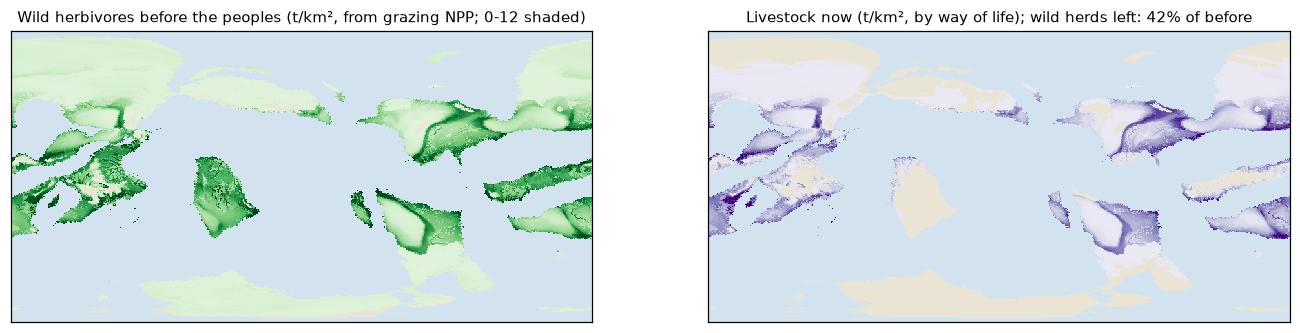
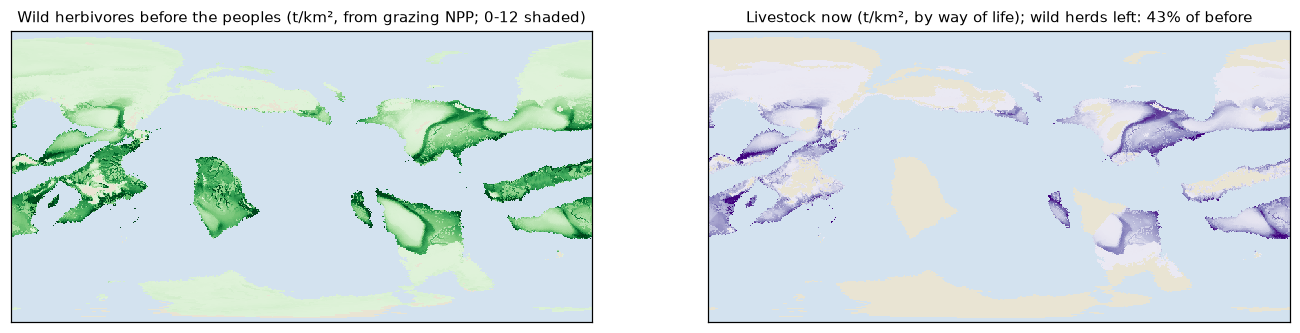
age-of-dragons review rebuilt for PW-990 B and PW-977 stage 2, with a plain summary first
2a7385 roll 7000 at e2092241; arms: main and a no-pressure diagnostic.

Claude-Session: https://claude.ai/code/session_015Ygr7jJsDAVZNZ3um5tdCA

diff --git a/docs/review/megafauna/age-of-dragons.html b/docs/review/megafauna/age-of-dragons.html
@@ -11,14 +11,27 @@ td:first-child,th:first-child{text-align:left} .sw{display:inline-block;width:10
 .wrap{overflow-x:auto}
 </style></head><body>
 <h1>The age of dragons: natural against present numbers</h1>
-<div class="mut">PW-967 review, for the owner. World 2a7385 (L7), dnd peoples, roll 7000, settings at their defaults (owner 10-28): natural density from the prey,
-younger age schedule, dragon generation 430 yr, dragons held to their food (PW-977 stage 1), 1 dragon per 5,000 km² and 1 giant per 2,000 km² where peoples press them. The other candidates are
+<div style="border:1px solid #ccc;border-radius:6px;padding:10px 14px;margin:10px 0 18px;max-width:900px">
+<b>In short (fun lane 45b, 2026-10-29; the 6 worlds x rolls 7000-7003 dnd sweep against main):</b>
+<ul>
+<li><b>Food now sets the dragons' natural numbers</b> (your PW-990 ruling, option B). Each year the land offers 10% of its wild herds plus 10% of the herders' stock. The peoples' hunters eat first, then the giants. The rest of the predators split what is left by body size: the small and mid-sized hunters take 83%, the dragons 17%. A dragon eats about 2.7 t of prey a year, so that 17% sets how many dragons the land holds.</li>
+<li><b>Dragons where no people live:</b> about 1 per 160 km&sup2; on 1 t/km&sup2; of prey. Rich savanna (about 7 t/km&sup2;) holds about 1 per 23 km&sup2;, a poor desert (about 0.6 t/km&sup2;) about 1 per 265 km&sup2;. The old rule from prey numbers (Carbone &amp; Gittleman) gave about 1 per 270 km&sup2; on 1 t/km&sup2;, so food allows about 1.7 times as many. Two checks from the papers: living mammal carnivores of a dragon's mass are predicted at 1 per ~200 km&sup2; (Jetz et al. 2004), and large reptiles at 1 per ~27 km&sup2; (Farlow 1993).</li>
+<li><b>Dragons per run at the present:</b> 62,600 against 42,300 on main (+48%; the range is 8,300 to 162,000 by world). Main's 15,300 was world 2a7385 alone; this world now has 20,000 on roll 7000. We did not tune this down.</li>
+<li><b>Dragons take very little of the food:</b> 0.9% of it 25,000 years ago and 0.6% today. In country with no people they eat about 7-8%. In peopled country the pressure rule leaves 1-2% of the dragons the food could feed, and as little as 0.2% in places. This is true even for foragers, who should not be able to kill dragons. Measured on 6 runs (one per world) with the pressure turned off, which gives 174,000-604,000 dragons per run against 14,000-80,000 with it: foragers' country keeps 0.6-2.1%, herders' 0.7-8.1%, farmers' 0.2-1.4%. Fixing this is stage 3 (persecution set against slow breeding).</li>
+<li><b>The peoples eat most of the wild game where they live:</b> 88% of the wild surplus in foragers' country and 52-56% in farmers' country before farming. The reason is that dnd's hunting peoples live at farmer-like densities (halflings 12 per km&sup2;, goblins 5). We have filed this for a decision.</li>
+<li><b>People density now follows the land's productivity</b> (PW-974). Foragers rise and fall with the wild food (the foraging layer), herders with the grass, and farmers are unchanged. Each way of life's average density stayed the same (foragers 3.65 against 3.66 people/km&sup2;, herders 0.81 against 0.76). The share of peoples with a big enough range is unchanged (69.0% both), and the remnants are 84 against 83.</li>
+</ul>
+<span class="mut">Every number on this page comes from planet.lineages and one run, world 2a7385 roll 7000; the sweep's numbers come from docs/review/megafauna/people_density.py. Unverified inputs: the 10% offtakes (PW-991), a person's food and game share, and the size-class rule (inbox draft).</span>
+</div>
+
+<div class="mut">PW-967 review, for the owner. World 2a7385 (L7), dnd peoples, roll 7000, settings at their defaults (owner 10-28, 10-29): natural density from food (PW-990 B: the dragons' part of the land's surplus after the peoples and the rest of the predator guild),
+younger age schedule, dragon generation 430 yr, dragons held to their food (PW-977 stages 1-2), 1 dragon per 5,000 km² and 1 giant per 2,000 km² where peoples press them. The other candidates are
 worked from the same run's fields. Nothing is picked: the settings are meta.megafauna_natural, meta.dragon_ages, meta.dragon_generation.</div>
 <h2>1. Before the peoples, and now</h2><img src="age-of-dragons/maps.png" alt="maps">
-<div class="row"><div class="wrap"><table><tr><th>natural density</th><th>schedule</th><th>per dragon</th><th>dragons in their country</th></tr><tr><td>prey-based (Carbone & Gittleman 2002)</td><td>base</td><td>1 per 229</td><td>772,582</td></tr><tr><td>prey-based (Carbone & Gittleman 2002)</td><td>younger</td><td>1 per 116</td><td>1,522,488</td></tr><tr><td>prey-based (Carbone & Gittleman 2002)</td><td>harsher</td><td>1 per 63</td><td>2,797,267</td></tr><tr><td>prey-based (Carbone & Gittleman 2002)</td><td>gentler</td><td>1 per 570</td><td>311,072</td></tr><tr><td>Damuth, Marshall's dinosaur line</td><td>base</td><td>1 per 65</td><td>1,981,171</td></tr><tr><td>Damuth, Marshall's dinosaur line</td><td>younger</td><td>1 per 31</td><td>4,165,504</td></tr><tr><td>Damuth, Marshall's dinosaur line</td><td>harsher</td><td>1 per 18</td><td>7,235,070</td></tr><tr><td>Damuth, Marshall's dinosaur line</td><td>gentler</td><td>1 per 135</td><td>956,800</td></tr><tr><td>Damuth, mammal carnivores</td><td>base</td><td>1 per 137</td><td>943,415</td></tr><tr><td>Damuth, mammal carnivores</td><td>younger</td><td>1 per 65</td><td>1,983,573</td></tr><tr><td>Damuth, mammal carnivores</td><td>harsher</td><td>1 per 38</td><td>3,445,271</td></tr><tr><td>Damuth, mammal carnivores</td><td>gentler</td><td>1 per 284</td><td>455,619</td></tr>
-<tr><td><b>present, peopled country</b></td><td>any</td><td>1 per 5,000</td><td>5,565 (the run)</td></tr></table>
-<div class="mut">Their country: 129.5 M km², any kind's habitat &ge; 0.5. Prey-based rows use the run's prey cell by cell (median there 2.3 t/km²);
-Damuth rows are uniform. Present: 1 per 5,000 is 9-79x below the prey-based values, 18-279x below Damuth's.</div></div>
+<div class="row"><div class="wrap"><table><tr><th>natural density</th><th>schedule</th><th>per dragon</th><th>dragons in their country</th></tr><tr><td>prey-based (Carbone & Gittleman 2002)</td><td>base</td><td>1 per 255</td><td>711,096</td></tr><tr><td>prey-based (Carbone & Gittleman 2002)</td><td>younger</td><td>1 per 129</td><td>1,401,320</td></tr><tr><td>prey-based (Carbone & Gittleman 2002)</td><td>harsher</td><td>1 per 70</td><td>2,574,646</td></tr><tr><td>prey-based (Carbone & Gittleman 2002)</td><td>gentler</td><td>1 per 633</td><td>286,315</td></tr><tr><td>Damuth, Marshall's dinosaur line</td><td>base</td><td>1 per 65</td><td>1,947,934</td></tr><tr><td>Damuth, Marshall's dinosaur line</td><td>younger</td><td>1 per 31</td><td>4,095,622</td></tr><tr><td>Damuth, Marshall's dinosaur line</td><td>harsher</td><td>1 per 18</td><td>7,113,691</td></tr><tr><td>Damuth, Marshall's dinosaur line</td><td>gentler</td><td>1 per 135</td><td>940,749</td></tr><tr><td>Damuth, mammal carnivores</td><td>base</td><td>1 per 137</td><td>927,587</td></tr><tr><td>Damuth, mammal carnivores</td><td>younger</td><td>1 per 65</td><td>1,950,296</td></tr><tr><td>Damuth, mammal carnivores</td><td>harsher</td><td>1 per 38</td><td>3,387,472</td></tr><tr><td>Damuth, mammal carnivores</td><td>gentler</td><td>1 per 284</td><td>447,976</td></tr>
+<tr><td><b>present, peopled country</b></td><td>any</td><td>1 per 5,000</td><td>19,968 (the run)</td></tr></table>
+<div class="mut">Their country: 127.4 M km², any kind's habitat &ge; 0.5. Prey-based rows use the run's prey cell by cell (median there 2.1 t/km²);
+Damuth rows are uniform. Present: 1 per 5,000 is 8-71x below the prey-based values, 18-279x below Damuth's.</div></div>
 <img src="age-of-dragons/over-time.png" alt="over time" style="max-width:520px"></div>
 <h2>2. What they eat from: wild herds and livestock</h2><img src="age-of-dragons/prey.png" alt="prey">
 <div class="mut">Wild herbivores from grazing NPP by McNaughton et al. 1989's fit (conversion factors unverified, prey.py);
@@ -28,20 +41,30 @@ small folk cut them by up to 60% outside tundra and mountains; livestock by way 
 <h2>4. Counts over familiar areas (anc = ancients, ad = adults, yg = young, wy = wyrmlings)</h2>
 <div class="mut">Counts for the dragon country as a whole are the run's; these are per area at the pressed or natural density, before the food cap. Owner's hunch to compare, not a target: California ~2 ancients, ~10 adults, 30+ young.</div>
 <div class="wrap"><b>Present, peopled dragon country (1 per 5,000 km²)</b><table><tr><th>area</th><th>km²</th><th>base</th><th>younger</th><th>harsher</th><th>gentler</th></tr><tr><td>Washington DC</td><td>180</td><td>~0.04: 0.00 anc, 0.02 ad, 0.01 yg, 0.00 wy</td><td>~0.04: 0.00 anc, 0.01 ad, 0.02 yg, 0.01 wy</td><td>~0.04: 0.00 anc, 0.01 ad, 0.02 yg, 0.01 wy</td><td>~0.04: 0.01 anc, 0.02 ad, 0.01 yg, 0.00 wy</td></tr><tr><td>a county</td><td>2,000</td><td>~0.4: 0.03 anc, 0.2 ad, 0.1 yg, 0.04 wy</td><td>~0.4: 0.01 anc, 0.07 ad, 0.2 yg, 0.10 wy</td><td>~0.4: 0.00 anc, 0.06 ad, 0.2 yg, 0.1 wy</td><td>~0.4: 0.1 anc, 0.2 ad, 0.07 yg, 0.01 wy</td></tr><tr><td>Wales</td><td>21,000</td><td>~4: 0.3 anc, 2 ad, 1 yg, 0.4 wy</td><td>~4: 0.1 anc, 0.8 ad, 2 yg, 1 wy</td><td>~4: 0.01 anc, 0.7 ad, 2 yg, 2 wy</td><td>~4: 1 anc, 2 ad, 0.7 yg, 0.1 wy</td></tr><tr><td>California</td><td>424,000</td><td>~85: 6 anc, 43 ad, 28 yg, 8 wy</td><td>~85: 2 anc, 16 ad, 46 yg, 21 wy</td><td>~85: 0.3 anc, 14 ad, 40 yg, 31 wy</td><td>~85: 22 anc, 46 ad, 15 yg, 2 wy</td></tr><tr><td>France</td><td>550,000</td><td>~110: 7 anc, 56 ad, 36 yg, 10 wy</td><td>~110: 3 anc, 20 ad, 60 yg, 27 wy</td><td>~110: 0.3 anc, 18 ad, 51 yg, 41 wy</td><td>~110: 29 anc, 59 ad, 19 yg, 3 wy</td></tr></table></div>
-<div class="wrap"><b>Natural, from the prey (at the dragon country's median, 2.3 t/km²)</b><table><tr><th>area</th><th>km²</th><th>base</th><th>younger</th><th>harsher</th><th>gentler</th></tr><tr><td>Washington DC</td><td>180</td><td>~0.8: 0.05 anc, 0.4 ad, 0.3 yg, 0.07 wy</td><td>~2: 0.04 anc, 0.3 ad, 0.8 yg, 0.4 wy</td><td>~3: 0.01 anc, 0.5 ad, 1 yg, 1 wy</td><td>~0.3: 0.08 anc, 0.2 ad, 0.05 yg, 0.01 wy</td></tr><tr><td>a county</td><td>2,000</td><td>~9: 0.6 anc, 4 ad, 3 yg, 0.8 wy</td><td>~17: 0.4 anc, 3 ad, 9 yg, 4 wy</td><td>~32: 0.10 anc, 5 ad, 15 yg, 12 wy</td><td>~4: 0.9 anc, 2 ad, 0.6 yg, 0.09 wy</td></tr><tr><td>Wales</td><td>21,000</td><td>~92: 6 anc, 47 ad, 30 yg, 8 wy</td><td>~180: 5 anc, 34 ad, 98 yg, 44 wy</td><td>~332: 1 anc, 53 ad, 155 yg, 123 wy</td><td>~37: 10 anc, 20 ad, 6 yg, 0.9 wy</td></tr><tr><td>California</td><td>424,000</td><td>~1849: 124 anc, 945 ad, 611 yg, 169 wy</td><td>~3644: 93 anc, 678 ad, 1986 yg, 888 wy</td><td>~6694: 21 anc, 1066 ad, 3126 yg, 2482 wy</td><td>~744: 196 anc, 402 ad, 128 yg, 18 wy</td></tr><tr><td>France</td><td>550,000</td><td>~2398: 161 anc, 1226 ad, 792 yg, 219 wy</td><td>~4726: 121 anc, 879 ad, 2576 yg, 1151 wy</td><td>~8684: 27 anc, 1383 ad, 4055 yg, 3219 wy</td><td>~966: 254 anc, 522 ad, 166 yg, 24 wy</td></tr></table></div>
+<div class="wrap"><b>Natural, from the prey (at the dragon country's median, 2.1 t/km²)</b><table><tr><th>area</th><th>km²</th><th>base</th><th>younger</th><th>harsher</th><th>gentler</th></tr><tr><td>Washington DC</td><td>180</td><td>~0.7: 0.05 anc, 0.4 ad, 0.2 yg, 0.06 wy</td><td>~1: 0.04 anc, 0.3 ad, 0.8 yg, 0.3 wy</td><td>~3: 0.01 anc, 0.4 ad, 1 yg, 0.9 wy</td><td>~0.3: 0.07 anc, 0.2 ad, 0.05 yg, 0.01 wy</td></tr><tr><td>a county</td><td>2,000</td><td>~8: 0.5 anc, 4 ad, 3 yg, 0.7 wy</td><td>~15: 0.4 anc, 3 ad, 8 yg, 4 wy</td><td>~28: 0.09 anc, 5 ad, 13 yg, 11 wy</td><td>~3: 0.8 anc, 2 ad, 0.5 yg, 0.08 wy</td></tr><tr><td>Wales</td><td>21,000</td><td>~82: 6 anc, 42 ad, 27 yg, 8 wy</td><td>~162: 4 anc, 30 ad, 88 yg, 40 wy</td><td>~298: 0.9 anc, 48 ad, 139 yg, 111 wy</td><td>~33: 9 anc, 18 ad, 6 yg, 0.8 wy</td></tr><tr><td>California</td><td>424,000</td><td>~1664: 112 anc, 851 ad, 549 yg, 152 wy</td><td>~3279: 84 anc, 610 ad, 1787 yg, 799 wy</td><td>~6024: 19 anc, 960 ad, 2813 yg, 2233 wy</td><td>~670: 176 anc, 362 ad, 115 yg, 16 wy</td></tr><tr><td>France</td><td>550,000</td><td>~2158: 145 anc, 1103 ad, 713 yg, 197 wy</td><td>~4253: 109 anc, 791 ad, 2318 yg, 1036 wy</td><td>~7814: 24 anc, 1245 ad, 3648 yg, 2897 wy</td><td>~869: 229 anc, 470 ad, 149 yg, 21 wy</td></tr></table></div>
 <div class="wrap"><b>Natural, Damuth on Marshall's dinosaur line</b><table><tr><th>area</th><th>km²</th><th>base</th><th>younger</th><th>harsher</th><th>gentler</th></tr><tr><td>Washington DC</td><td>180</td><td>~3: 0.2 anc, 1 ad, 0.9 yg, 0.3 wy</td><td>~6: 0.1 anc, 1 ad, 3 yg, 1 wy</td><td>~10: 0.03 anc, 2 ad, 5 yg, 4 wy</td><td>~1: 0.3 anc, 0.7 ad, 0.2 yg, 0.03 wy</td></tr><tr><td>a county</td><td>2,000</td><td>~31: 2 anc, 16 ad, 10 yg, 3 wy</td><td>~64: 2 anc, 12 ad, 35 yg, 16 wy</td><td>~112: 0.3 anc, 18 ad, 52 yg, 41 wy</td><td>~15: 4 anc, 8 ad, 3 yg, 0.4 wy</td></tr><tr><td>Wales</td><td>21,000</td><td>~321: 22 anc, 164 ad, 106 yg, 29 wy</td><td>~675: 17 anc, 126 ad, 368 yg, 164 wy</td><td>~1173: 4 anc, 187 ad, 548 yg, 435 wy</td><td>~155: 41 anc, 84 ad, 27 yg, 4 wy</td></tr><tr><td>California</td><td>424,000</td><td>~6485: 435 anc, 3316 ad, 2141 yg, 593 wy</td><td>~13636: 348 anc, 2535 ad, 7431 yg, 3321 wy</td><td>~23684: 73 anc, 3773 ad, 11058 yg, 8780 wy</td><td>~3132: 824 anc, 1693 ad, 537 yg, 77 wy</td></tr><tr><td>France</td><td>550,000</td><td>~8413: 564 anc, 4301 ad, 2778 yg, 769 wy</td><td>~17688: 451 anc, 3289 ad, 9639 yg, 4308 wy</td><td>~30722: 94 anc, 4894 ad, 14344 yg, 11389 wy</td><td>~4063: 1069 anc, 2197 ad, 697 yg, 100 wy</td></tr></table></div>
 <h2>5. Food against the livestock beside them (present, younger schedule)</h2>
-<div class="mut">PW-977 stage 1: the land feeds dragons from the sustainable offtake of the wild herds (10%/yr, unverified) plus the share of the herders' stock they
+<div class="mut">PW-977 stage 1: the land feeds dragons from the sustainable offtake of the wild herds (10%/yr, a judgement inside Farlow 1993's prey turnover) plus the share of the herders' stock they
 tolerate losing (10%/yr, unverified); where the dragons would need more, there are fewer. They take wild prey and stock in proportion to what each supplies.
-Worst case in this run: a cell's need is 9.9% of its supply, a pocket's 7.9%, and no pocket with a herd loses more than 0.31% of its stock a year.
+Worst case in this run: a cell's need is 100.0% of its supply, a pocket's 100.0%, and no pocket with a herd loses more than 0.38% of its stock a year.
 The earlier version of this table put an ancient's whole yearly kill against the stock in its range, as if it ate only stock (the "eaten / stock if all from stock" column, kept
 for comparison): that is not what a dragon in wild country does, and it is not a limit.</div>
-<div class="row"><div class="wrap"><table><tr><th>California-sized square at</th><th>dragons there</th><th>cattle eaten a year</th><th>livestock head there</th><th>eaten / stock if all from stock</th><th>food use (need / supply)</th><th>stock taken</th></tr><tr><td>-2.1, -42.4</td><td>6 ancients, 42 adults, 122 young, 54 wyrmlings</td><td>1,194</td><td>0</td><td>-</td><td>0.6%</td><td>0.01%</td></tr><tr><td>0.4, -62.1</td><td>3 ancients, 20 adults, 59 young, 26 wyrmlings</td><td>582</td><td>578,743</td><td>0.10%</td><td>0.2%</td><td>0.01%</td></tr><tr><td>-74.6, 77.3</td><td>3 ancients, 20 adults, 59 young, 26 wyrmlings</td><td>578</td><td>0</td><td>-</td><td>3.9%</td><td>0.00%</td></tr></table>
+<div class="row"><div class="wrap"><table><tr><th>California-sized square at</th><th>dragons there</th><th>cattle eaten a year</th><th>livestock head there</th><th>eaten / stock if all from stock</th><th>food use (need / supply)</th><th>stock taken</th></tr><tr><td>-25.3, 54.7</td><td>57 ancients, 413 adults, 1209 young, 540 wyrmlings</td><td>11,872</td><td>0</td><td>-</td><td>90.1%</td><td>0.00%</td></tr><tr><td>-18.0, 51.2</td><td>53 ancients, 385 adults, 1129 young, 505 wyrmlings</td><td>11,085</td><td>0</td><td>-</td><td>68.1%</td><td>0.00%</td></tr><tr><td>-29.3, 62.0</td><td>27 ancients, 195 adults, 571 young, 255 wyrmlings</td><td>5,602</td><td>14,459</td><td>38.75%</td><td>85.2%</td><td>0.74%</td></tr></table>
 <div class="mut">In aggregate small. Locally an ancient takes ~87 head a year (~43 t live): at 1 t/km² of prey and
-10%/yr offtake that is ~434 km² of wild country. Where the herders' stock is the most of what is there, that is where bounties come from (PW-961):</div><ul><li>1 ancient green dragon in the forest at -52.1, 85.3: each takes ~87 head a year; the dragons there use 3% of the food the land supplies and take 0.3% of the 4,093 head of the herders' stock</li><li>1 ancient white dragon in the mountains at 44.4, -99.3: each takes ~87 head a year; the dragons there use 1% of the food the land supplies and take 0.1% of the 30 head of the herders' stock</li><li>6 ancient blue dragons in the desert at 34.6, -120.3: each takes ~87 head a year; the dragons there use 1% of the food the land supplies and take 0.1% of the 725,552 head of the herders' stock</li><li>1 ancient blue dragon in the desert at 34.7, 158.1: each takes ~87 head a year; the dragons there use 1% of the food the land supplies and take 0.1% of the 317,547 head of the herders' stock</li></ul></div>
+10%/yr offtake that is ~434 km² of wild country. Where the herders' stock is the most of what is there, that is where bounties come from (PW-961):</div><ul><li>2 ancient white dragons in the mountains at 35.8, 66.3: each takes ~87 head a year; the dragons there use 9% of the food the land supplies and take 0.2% of the 49,528 head of the herders' stock</li><li>5 ancient blue dragons in the desert at 34.7, 158.1: each takes ~87 head a year; the dragons there use 14% of the food the land supplies and take 0.2% of the 170,568 head of the herders' stock</li><li>5 ancient green dragons in the forest at 56.4, -125.2: each takes ~87 head a year; the dragons there use 10% of the food the land supplies and take 0.2% of the 594,276 head of the herders' stock</li><li>36 ancient blue dragons in the desert at 33.9, -120.4: each takes ~87 head a year; the dragons there use 20% of the food the land supplies and take 0.1% of the 518,675 head of the herders' stock</li></ul></div>
 <img src="age-of-dragons/ranges.png" alt="ranges" style="max-width:460px"></div>
-<h2>6. Per kind (present, younger)</h2><table><tr><th>kind</th><th>now</th><th>by stage</th><th>natural in the same country</th><th>in peopled country</th><th>of their country reached</th></tr><tr><td><span class='sw' style='background:#2b8a3e'></span>green</td><td>1,848</td><td>43 ancients, 348 adults, 1041 young, 416 wyrmlings</td><td>88,234</td><td>99%</td><td>94%</td></tr><tr><td><span class='sw' style='background:#2a6fdb'></span>blue</td><td>1,799</td><td>47 ancients, 322 adults, 961 young, 469 wyrmlings</td><td>25,127</td><td>98%</td><td>99%</td></tr><tr><td><span class='sw' style='background:#9ad'></span>white</td><td>641</td><td>17 ancients, 144 adults, 338 young, 142 wyrmlings</td><td>1,398</td><td>48%</td><td>84%</td></tr><tr><td><span class='sw' style='background:#222'></span>black</td><td>627</td><td>18 ancients, 127 adults, 341 young, 141 wyrmlings</td><td>49,069</td><td>100%</td><td>85%</td></tr><tr><td><span class='sw' style='background:#c9b037'></span>brass</td><td>310</td><td>4 ancients, 59 adults, 187 young, 60 wyrmlings</td><td>26,681</td><td>100%</td><td>97%</td></tr><tr><td><span class='sw' style='background:#d33'></span>red</td><td>180</td><td>10 ancients, 36 adults, 92 young, 42 wyrmlings</td><td>3,174</td><td>91%</td><td>36%</td></tr><tr><td><span class='sw' style='background:#d4a017'></span>gold</td><td>51</td><td>10 adults, 33 young, 8 wyrmlings</td><td>8,268</td><td>100%</td><td>41%</td></tr><tr><td><span class='sw' style='background:#b0702c'></span>bronze</td><td>45</td><td>1 ancient, 3 adults, 33 young, 8 wyrmlings</td><td>1,087</td><td>98%</td><td>79%</td></tr><tr><td><span class='sw' style='background:#8a8f98'></span>silver</td><td>33</td><td>7 adults, 19 young, 7 wyrmlings</td><td>927</td><td>100%</td><td>66%</td></tr><tr><td><span class='sw' style='background:#c8643b'></span>copper</td><td>31</td><td>2 ancients, 4 adults, 17 young, 8 wyrmlings</td><td>2,659</td><td>100%</td><td>39%</td></tr></table>
-<div class="mut">Giants (no stages): hill giant 194 now / ~3,320 natural, cloud giant 62 now / ~152 natural, frost giant 533 now / ~536 natural, storm giant 439 now / ~3,806 natural, fire giant 69 now / ~887 natural.</div>
-<p class="mut">Made by docs/review/megafauna/age_of_dragons.py from one run; sources in docs/references/megafauna/README.md (Carbone &amp; Gittleman 2002 and Marshall et al. 2021 on file;
-Nagy et al. 1999's reptile intercept unverified).</p>
+<h2>6. Per kind (present, younger)</h2><table><tr><th>kind</th><th>now</th><th>by stage</th><th>natural in the same country</th><th>in peopled country</th><th>of their country reached</th></tr><tr><td><span class='sw' style='background:#2a6fdb'></span>blue</td><td>12,661</td><td>315 ancients, 2255 adults, 7048 young, 3043 wyrmlings</td><td>81,020</td><td>69%</td><td>100%</td></tr><tr><td><span class='sw' style='background:#9ad'></span>white</td><td>2,653</td><td>72 ancients, 481 adults, 1450 young, 650 wyrmlings</td><td>3,278</td><td>32%</td><td>86%</td></tr><tr><td><span class='sw' style='background:#2b8a3e'></span>green</td><td>2,391</td><td>60 ancients, 465 adults, 1294 young, 572 wyrmlings</td><td>47,792</td><td>99%</td><td>93%</td></tr><tr><td><span class='sw' style='background:#c9b037'></span>brass</td><td>1,106</td><td>29 ancients, 186 adults, 616 young, 275 wyrmlings</td><td>70,026</td><td>99%</td><td>97%</td></tr><tr><td><span class='sw' style='background:#222'></span>black</td><td>653</td><td>18 ancients, 118 adults, 367 young, 150 wyrmlings</td><td>43,967</td><td>100%</td><td>88%</td></tr><tr><td><span class='sw' style='background:#d33'></span>red</td><td>339</td><td>9 ancients, 66 adults, 176 young, 88 wyrmlings</td><td>4,011</td><td>83%</td><td>39%</td></tr><tr><td><span class='sw' style='background:#b0702c'></span>bronze</td><td>93</td><td>1 ancient, 15 adults, 55 young, 22 wyrmlings</td><td>4,804</td><td>99%</td><td>67%</td></tr><tr><td><span class='sw' style='background:#d4a017'></span>gold</td><td>40</td><td>1 ancient, 6 adults, 26 young, 7 wyrmlings</td><td>8,769</td><td>100%</td><td>39%</td></tr><tr><td><span class='sw' style='background:#c8643b'></span>copper</td><td>25</td><td>3 ancients, 14 young, 8 wyrmlings</td><td>3,221</td><td>100%</td><td>40%</td></tr><tr><td><span class='sw' style='background:#8a8f98'></span>silver</td><td>7</td><td>2 adults, 3 young, 2 wyrmlings</td><td>95</td><td>100%</td><td>69%</td></tr></table>
+<div class="mut">Giants (no stages): hill giant 238 now / ~4,063 natural, cloud giant 57 now / ~200 natural, frost giant 63 now / ~88 natural, storm giant 439 now / ~3,806 natural, fire giant 316 now / ~1,819 natural.</div>
+<h2>7. The food budget, stage 2 (PW-977): the peoples' and the guild's share, then the dragons'</h2>
+<div class="mut">Per cell, in head of cattle-sized prey a year (1 head = 0.5 t): the supply is the wild herds' sustainable offtake (10%/yr, unverified) plus
+the herders' tolerable stock loss (10%/yr, unverified). First the hunting peoples take their game (density x need: a person eats 2,200 kcal/day, 50% of a
+forager's and 5% of any other way's from wild game, unverified), then the giants (their own densities and food) and the rest of the predator guild
+(under the default "food" mode the smaller carnivores take 83% of what the peoples and giants leave and the dragons 17%: the size classes of Carbone, Turvey &amp; Bielby 2011, Table 1, weighted by a metabolic M<sup>0.75</sup> that is not from the paper; the dragons' natural density is their part over a dragon's food, PW-990 B),
+and the dragons get what is left; where they would need more, there are fewer. The squares are centred on the run's busiest ancient pocket (-27.6, 62.3).</div>
+<img src="age-of-dragons/arms-over-time.png" alt="arms" style="max-width:640px">
+<div class="wrap"><table><tr><th>era</th><th>area</th><th>km&sup2;</th><th>supply, head/yr</th><th>peoples</th><th>giants</th><th>guild</th><th>left for dragons</th><th>dragons there</th><th>...without the cap</th><th>need / their share</th></tr><tr><td>the present</td><td>Wales</td><td>15,565</td><td>867</td><td>0.0%</td><td>0.0%</td><td>83.2%</td><td>16.8%</td><td>27.1</td><td>27.1</td><td>99%</td></tr><tr><td>the present</td><td>California</td><td>376,690</td><td>26,754</td><td>0.1%</td><td>0.0%</td><td>83.1%</td><td>16.8%</td><td>829.9</td><td>830.3</td><td>99%</td></tr><tr><td>10 kyr ago</td><td>Wales</td><td>15,565</td><td>867</td><td>0.0%</td><td>0.0%</td><td>83.2%</td><td>16.8%</td><td>14.2</td><td>14.2</td><td>52%</td></tr><tr><td>10 kyr ago</td><td>California</td><td>376,690</td><td>26,749</td><td>0.0%</td><td>0.0%</td><td>83.2%</td><td>16.8%</td><td>580.0</td><td>580.0</td><td>69%</td></tr><tr><td>25 kyr ago</td><td>Wales</td><td>15,565</td><td>867</td><td>0.0%</td><td>0.0%</td><td>83.2%</td><td>16.8%</td><td>21.5</td><td>21.5</td><td>79%</td></tr><tr><td>25 kyr ago</td><td>California</td><td>376,690</td><td>26,749</td><td>0.0%</td><td>0.0%</td><td>83.2%</td><td>16.8%</td><td>752.4</td><td>752.4</td><td>90%</td></tr></table></div>
+<div class="mut">Shares of the supply. "dragons there": expected number at the density the model used; "without the cap": what the pressure alone would leave; "need / their share" above 100% would mean the cap bites.</div>
+<div class="wrap"><table><tr><th>era</th><th>dragon country that is...</th><th>cells</th><th>peoples' take / supply</th><th>guild's take / supply</th><th>dragons' need at the uncapped density / supply</th><th>cells where the cap binds</th><th>dragons the cap removes</th></tr><tr><td>the present</td><td>no people</td><td>2,033</td><td>4.3%</td><td>79.2%</td><td>13.8%</td><td>12.9%</td><td>2.8%</td></tr><tr><td>the present</td><td>foragers' country</td><td>4,584</td><td>76.9%</td><td>18.9%</td><td>0.7%</td><td>27.4%</td><td>18.9%</td></tr><tr><td>the present</td><td>herders' country</td><td>6,330</td><td>12.3%</td><td>72.9%</td><td>0.9%</td><td>0.1%</td><td>1.2%</td></tr><tr><td>the present</td><td>farmers' country</td><td>4,596</td><td>57.0%</td><td>35.3%</td><td>1.4%</td><td>9.6%</td><td>7.9%</td></tr><tr><td>10 kyr ago</td><td>no people</td><td>4,691</td><td>2.6%</td><td>80.6%</td><td>14.9%</td><td>20.2%</td><td>1.8%</td></tr><tr><td>10 kyr ago</td><td>foragers' country</td><td>5,442</td><td>85.9%</td><td>11.2%</td><td>1.6%</td><td>46.4%</td><td>31.6%</td></tr><tr><td>10 kyr ago</td><td>herders' country</td><td>2,469</td><td>25.2%</td><td>62.0%</td><td>0.3%</td><td>1.3%</td><td>1.6%</td></tr><tr><td>10 kyr ago</td><td>farmers' country</td><td>4,894</td><td>65.0%</td><td>28.2%</td><td>1.0%</td><td>11.7%</td><td>7.1%</td></tr><tr><td>25 kyr ago</td><td>no people</td><td>4,407</td><td>2.4%</td><td>80.7%</td><td>14.9%</td><td>21.1%</td><td>1.9%</td></tr><tr><td>25 kyr ago</td><td>foragers' country</td><td>6,248</td><td>84.7%</td><td>12.2%</td><td>1.3%</td><td>42.1%</td><td>29.8%</td></tr><tr><td>25 kyr ago</td><td>herders' country</td><td>2,451</td><td>25.0%</td><td>62.2%</td><td>0.4%</td><td>1.3%</td><td>2.0%</td></tr><tr><td>25 kyr ago</td><td>farmers' country</td><td>4,855</td><td>63.8%</td><td>29.3%</td><td>0.9%</td><td>11.0%</td><td>6.0%</td></tr></table></div>
+<p class="mut">Made by docs/review/megafauna/age_of_dragons.py from one run; sources in docs/references/megafauna/README.md (Carbone &amp; Gittleman 2002, Marshall et al. 2021 and
+Nagy et al. 1999 on file and checked; the wild offtake and stock shares are judgements, PW-991).</p>
 </body></html>

diff --git a/docs/review/megafauna/summary-45b.html b/docs/review/megafauna/summary-45b.html
@@ -1,0 +1,12 @@
+<div style="border:1px solid #ccc;border-radius:6px;padding:10px 14px;margin:10px 0 18px;max-width:900px">
+<b>In short (fun lane 45b, 2026-10-29; the 6 worlds x rolls 7000-7003 dnd sweep against main):</b>
+<ul>
+<li><b>Food now sets the dragons' natural numbers</b> (your PW-990 ruling, option B). Each year the land offers 10% of its wild herds plus 10% of the herders' stock. The peoples' hunters eat first, then the giants. The rest of the predators split what is left by body size: the small and mid-sized hunters take 83%, the dragons 17%. A dragon eats about 2.7 t of prey a year, so that 17% sets how many dragons the land holds.</li>
+<li><b>Dragons where no people live:</b> about 1 per 160 km&sup2; on 1 t/km&sup2; of prey. Rich savanna (about 7 t/km&sup2;) holds about 1 per 23 km&sup2;, a poor desert (about 0.6 t/km&sup2;) about 1 per 265 km&sup2;. The old rule from prey numbers (Carbone &amp; Gittleman) gave about 1 per 270 km&sup2; on 1 t/km&sup2;, so food allows about 1.7 times as many. Two checks from the papers: living mammal carnivores of a dragon's mass are predicted at 1 per ~200 km&sup2; (Jetz et al. 2004), and large reptiles at 1 per ~27 km&sup2; (Farlow 1993).</li>
+<li><b>Dragons per run at the present:</b> 62,600 against 42,300 on main (+48%; the range is 8,300 to 162,000 by world). Main's 15,300 was world 2a7385 alone; this world now has 20,000 on roll 7000. We did not tune this down.</li>
+<li><b>Dragons take very little of the food:</b> 0.9% of it 25,000 years ago and 0.6% today. In country with no people they eat about 7-8%. In peopled country the pressure rule leaves 1-2% of the dragons the food could feed, and as little as 0.2% in places. This is true even for foragers, who should not be able to kill dragons. Measured on 6 runs (one per world) with the pressure turned off, which gives 174,000-604,000 dragons per run against 14,000-80,000 with it: foragers' country keeps 0.6-2.1%, herders' 0.7-8.1%, farmers' 0.2-1.4%. Fixing this is stage 3 (persecution set against slow breeding).</li>
+<li><b>The peoples eat most of the wild game where they live:</b> 88% of the wild surplus in foragers' country and 52-56% in farmers' country before farming. The reason is that dnd's hunting peoples live at farmer-like densities (halflings 12 per km&sup2;, goblins 5). We have filed this for a decision.</li>
+<li><b>People density now follows the land's productivity</b> (PW-974). Foragers rise and fall with the wild food (the foraging layer), herders with the grass, and farmers are unchanged. Each way of life's average density stayed the same (foragers 3.65 against 3.66 people/km&sup2;, herders 0.81 against 0.76). The share of peoples with a big enough range is unchanged (69.0% both), and the remnants are 84 against 83.</li>
+</ul>
+<span class="mut">Every number on this page comes from planet.lineages and one run, world 2a7385 roll 7000; the sweep's numbers come from docs/review/megafauna/people_density.py. Unverified inputs: the 10% offtakes (PW-991), a person's food and game share, and the size-class rule (inbox draft).</span>
+</div>
